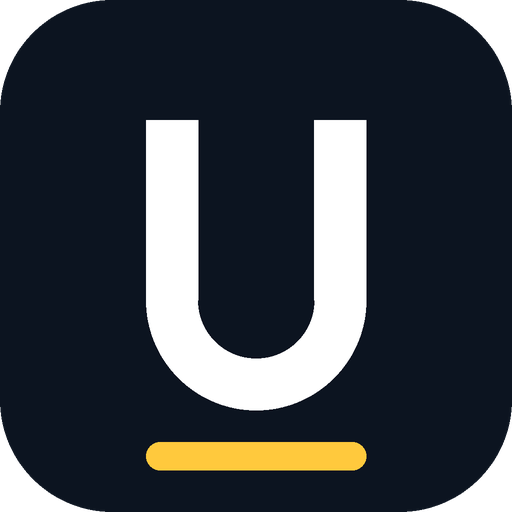
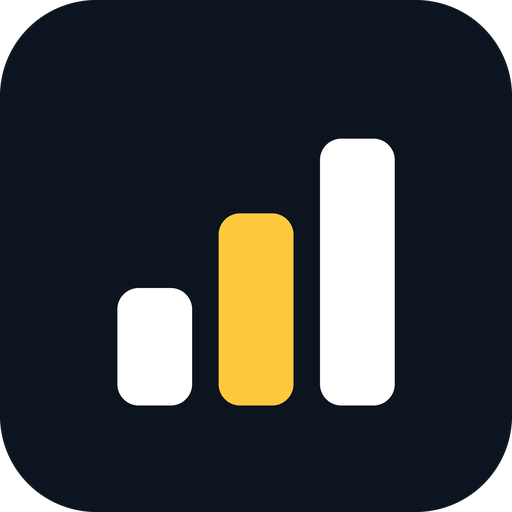
Znak marki: trzy poziomy standardu
Wybrany wariant czwarty: trzy slupki jako ekonomiczny, standardowy i premium,
srodkowy zolty. Nawiazuje do tego, czym serwis operuje na kazdej stronie,
i czyta sie nawet przy szesnastu pikselach.

- symbol w naglowku i stopce jako SVG dziedziczacy kolor, wiec na ciemnym tle
  stopki jest bialy bez osobnego pliku
- przegenerowane wszystkie ikony z jednego zrodla: favicon 32 i 96, ico,
  apple-touch, 192 i 512 dla manifestu
- nowy obraz do udostepnien z tym samym znakiem i konkretem zamiast ozdobnikow

diff --git a/src/assets/style.css b/src/assets/style.css
@@ -832,3 +832,13 @@ h2.litera {
   padding-bottom: .3rem; border-bottom: 2px solid var(--signal);
   scroll-margin-top: 1rem;
 }
+
+/* ---------- znak marki ---------- */
+
+.brand { display: inline-flex; align-items: center; gap: .55rem; }
+.brand .znak { flex: none; color: var(--ink); border-radius: 7px; }
+.site-foot .brand .znak { color: #fff; }
+.brand-tekst { display: inline-flex; }
+@media (max-width: 26rem) {
+  .brand-tekst { font-size: var(--step--1); }
+}
